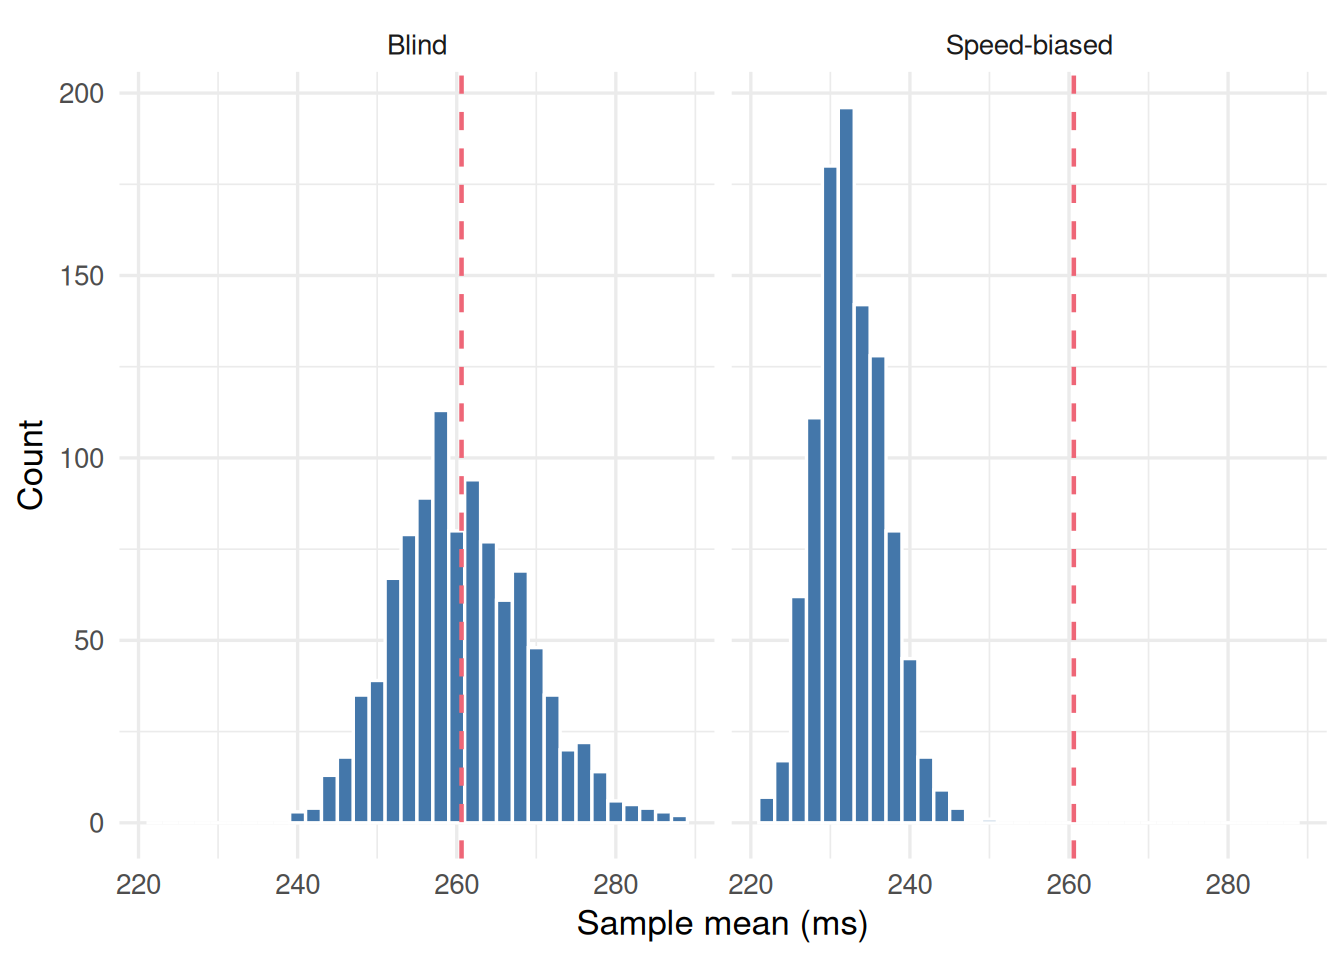
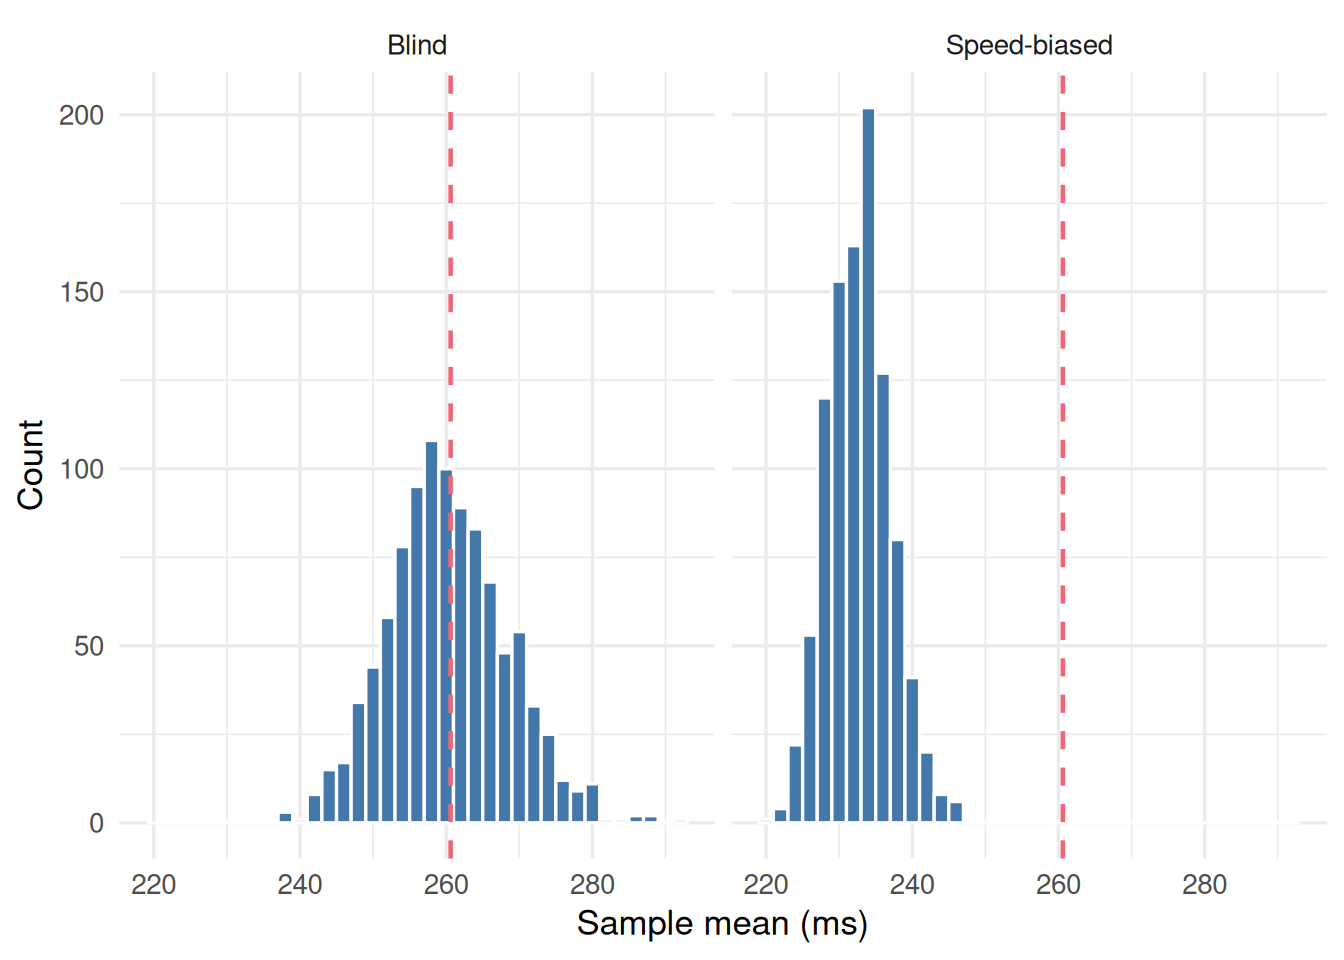
Fixes to week 1

diff --git a/docs/session-01-computation.html b/docs/session-01-computation.html
@@ -580,6 +580,46 @@ Answer
 </div>
 <p>The code below simulates both a blind draw and a speed-biased draw. In the biased version, each student’s probability of being selected falls off steeply with their reaction time, so fast students are drawn far more often than slow ones.</p>
 <div class="cell">
+<div class="code-copy-outer-scaffold"><div class="sourceCode cell-code" id="cb3"><pre class="sourceCode numberSource r number-lines code-with-copy"><code class="sourceCode r"><span id="cb3-1"><a href="#cb3-1"></a><span class="co">#| echo: true</span></span>
+<span id="cb3-2"><a href="#cb3-2"></a><span class="co">#| eval: false</span></span>
+<span id="cb3-3"><a href="#cb3-3"></a><span class="co">#| fig-cap: "Sampling distributions from blind (left) and speed-biased (right) draws."</span></span>
+<span id="cb3-4"><a href="#cb3-4"></a></span>
+<span id="cb3-5"><a href="#cb3-5"></a>blind_means <span class="ot">&lt;-</span> <span class="fu">replicate</span>(<span class="dv">1000</span>, {</span>
+<span id="cb3-6"><a href="#cb3-6"></a>  s <span class="ot">&lt;-</span> <span class="fu">sample</span>(rt_population, <span class="at">size =</span> <span class="dv">20</span>)</span>
+<span id="cb3-7"><a href="#cb3-7"></a>  <span class="fu">mean</span>(s)</span>
+<span id="cb3-8"><a href="#cb3-8"></a>})</span>
+<span id="cb3-9"><a href="#cb3-9"></a></span>
+<span id="cb3-10"><a href="#cb3-10"></a><span class="co"># Faster students more likely to have entered a score</span></span>
+<span id="cb3-11"><a href="#cb3-11"></a>biased_means <span class="ot">&lt;-</span> <span class="fu">replicate</span>(<span class="dv">1000</span>, {</span>
+<span id="cb3-12"><a href="#cb3-12"></a>  s <span class="ot">&lt;-</span> <span class="fu">sample</span>(rt_population, <span class="at">size =</span> <span class="dv">20</span>, <span class="at">prob =</span> <span class="fu">exp</span>(<span class="sc">-</span>rt_population <span class="sc">/</span> <span class="dv">25</span>))</span>
+<span id="cb3-13"><a href="#cb3-13"></a>  <span class="fu">mean</span>(s)</span>
+<span id="cb3-14"><a href="#cb3-14"></a>})</span>
+<span id="cb3-15"><a href="#cb3-15"></a></span>
+<span id="cb3-16"><a href="#cb3-16"></a><span class="fu">bind_rows</span>(</span>
+<span id="cb3-17"><a href="#cb3-17"></a>  <span class="fu">tibble</span>(<span class="at">sample_mean =</span> blind_means, <span class="at">draw =</span> <span class="st">"Blind"</span>),</span>
+<span id="cb3-18"><a href="#cb3-18"></a>  <span class="fu">tibble</span>(<span class="at">sample_mean =</span> biased_means, <span class="at">draw =</span> <span class="st">"Speed-biased"</span>)</span>
+<span id="cb3-19"><a href="#cb3-19"></a>) <span class="sc">|&gt;</span></span>
+<span id="cb3-20"><a href="#cb3-20"></a>  <span class="fu">ggplot</span>(<span class="fu">aes</span>(<span class="at">x =</span> sample_mean)) <span class="sc">+</span></span>
+<span id="cb3-21"><a href="#cb3-21"></a>  <span class="fu">geom_histogram</span>(<span class="at">binwidth =</span> <span class="dv">2</span>, <span class="at">fill =</span> <span class="st">"#4477AA"</span>, <span class="at">colour =</span> <span class="st">"white"</span>) <span class="sc">+</span></span>
+<span id="cb3-22"><a href="#cb3-22"></a>  <span class="fu">geom_vline</span>(</span>
+<span id="cb3-23"><a href="#cb3-23"></a>    <span class="at">xintercept =</span> pop_mean,</span>
+<span id="cb3-24"><a href="#cb3-24"></a>    <span class="at">linetype =</span> <span class="st">"dashed"</span>, <span class="at">colour =</span> <span class="st">"#EE6677"</span>, <span class="at">linewidth =</span> <span class="fl">0.8</span></span>
+<span id="cb3-25"><a href="#cb3-25"></a>  ) <span class="sc">+</span></span>
+<span id="cb3-26"><a href="#cb3-26"></a>  <span class="fu">facet_wrap</span>(<span class="sc">~</span>draw) <span class="sc">+</span></span>
+<span id="cb3-27"><a href="#cb3-27"></a>  <span class="fu">labs</span>(<span class="at">x =</span> <span class="st">"Sample mean (ms)"</span>, <span class="at">y =</span> <span class="st">"Count"</span>) <span class="sc">+</span></span>
+<span id="cb3-28"><a href="#cb3-28"></a>  <span class="fu">theme_minimal</span>(<span class="at">base_size =</span> <span class="dv">13</span>)</span></code></pre></div><button title="Copy to Clipboard" class="code-copy-button"><i class="bi"></i></button></div>
+<div class="cell-output-display">
+<div>
+<figure class="figure"><p><img src="session-01-computation_files/figure-html/unnamed-chunk-4-1.png" class="img-fluid figure-img" width="672"></p>
+</figure>
+</div>
+</div>
+</div>
+<div class="webex-solution">
+<button>
+Answer
+</button>
+<div class="cell">
 <div class="cell-output-display">
 <div id="fig-bias" class="quarto-float quarto-figure quarto-figure-center anchored">
 <figure class="quarto-float quarto-float-fig figure"><div aria-describedby="fig-bias-caption-0ceaefa1-69ba-4598-a22c-09a6ac19f8ca">
@@ -588,6 +628,7 @@ Answer
 <figcaption class="quarto-float-caption-bottom quarto-float-caption quarto-float-fig" id="fig-bias-caption-0ceaefa1-69ba-4598-a22c-09a6ac19f8ca">
 Figure&nbsp;3: Sampling distributions from blind (left) and speed-biased (right) draws.
 </figcaption></figure>
+</div>
 </div>
 </div>
 </div>
@@ -618,17 +659,17 @@ Why?
 </div>
 <p>The code that generates the blind draw is:</p>
 <div class="cell">
-<div class="code-copy-outer-scaffold"><div class="sourceCode cell-code" id="cb3"><pre class="sourceCode numberSource r number-lines code-with-copy"><code class="sourceCode r"><span id="cb3-1"><a href="#cb3-1"></a>blind_means <span class="ot">&lt;-</span> <span class="fu">replicate</span>(<span class="dv">1000</span>, {</span>
-<span id="cb3-2"><a href="#cb3-2"></a>  s <span class="ot">&lt;-</span> <span class="fu">sample</span>(rt_population, <span class="at">size =</span> <span class="dv">20</span>)</span>
-<span id="cb3-3"><a href="#cb3-3"></a>  <span class="fu">mean</span>(s)</span>
-<span id="cb3-4"><a href="#cb3-4"></a>})</span></code></pre></div><button title="Copy to Clipboard" class="code-copy-button"><i class="bi"></i></button></div>
+<div class="code-copy-outer-scaffold"><div class="sourceCode cell-code" id="cb4"><pre class="sourceCode numberSource r number-lines code-with-copy"><code class="sourceCode r"><span id="cb4-1"><a href="#cb4-1"></a>blind_means <span class="ot">&lt;-</span> <span class="fu">replicate</span>(<span class="dv">1000</span>, {</span>
+<span id="cb4-2"><a href="#cb4-2"></a>  s <span class="ot">&lt;-</span> <span class="fu">sample</span>(rt_population, <span class="at">size =</span> <span class="dv">20</span>)</span>
+<span id="cb4-3"><a href="#cb4-3"></a>  <span class="fu">mean</span>(s)</span>
+<span id="cb4-4"><a href="#cb4-4"></a>})</span></code></pre></div><button title="Copy to Clipboard" class="code-copy-button"><i class="bi"></i></button></div>
 </div>
 <p>The biased draw adds <code>prob = exp(-rt_population / 25)</code>, which weights selection heavily towards faster students:</p>
 <div class="cell">
-<div class="code-copy-outer-scaffold"><div class="sourceCode cell-code" id="cb4"><pre class="sourceCode numberSource r number-lines code-with-copy"><code class="sourceCode r"><span id="cb4-1"><a href="#cb4-1"></a>biased_means <span class="ot">&lt;-</span> <span class="fu">replicate</span>(<span class="dv">1000</span>, {</span>
-<span id="cb4-2"><a href="#cb4-2"></a>  s <span class="ot">&lt;-</span> <span class="fu">sample</span>(rt_population, <span class="at">size =</span> <span class="dv">20</span>, <span class="at">prob =</span> <span class="fu">exp</span>(<span class="sc">-</span>rt_population <span class="sc">/</span> <span class="dv">25</span>))</span>
-<span id="cb4-3"><a href="#cb4-3"></a>  <span class="fu">mean</span>(s)</span>
-<span id="cb4-4"><a href="#cb4-4"></a>})</span></code></pre></div><button title="Copy to Clipboard" class="code-copy-button"><i class="bi"></i></button></div>
+<div class="code-copy-outer-scaffold"><div class="sourceCode cell-code" id="cb5"><pre class="sourceCode numberSource r number-lines code-with-copy"><code class="sourceCode r"><span id="cb5-1"><a href="#cb5-1"></a>biased_means <span class="ot">&lt;-</span> <span class="fu">replicate</span>(<span class="dv">1000</span>, {</span>
+<span id="cb5-2"><a href="#cb5-2"></a>  s <span class="ot">&lt;-</span> <span class="fu">sample</span>(rt_population, <span class="at">size =</span> <span class="dv">20</span>, <span class="at">prob =</span> <span class="fu">exp</span>(<span class="sc">-</span>rt_population <span class="sc">/</span> <span class="dv">25</span>))</span>
+<span id="cb5-3"><a href="#cb5-3"></a>  <span class="fu">mean</span>(s)</span>
+<span id="cb5-4"><a href="#cb5-4"></a>})</span></code></pre></div><button title="Copy to Clipboard" class="code-copy-button"><i class="bi"></i></button></div>
 </div>
 <div class="task">
 <div class="task-header">
@@ -657,12 +698,14 @@ Model answer
 <p><strong>Task: swap the population for a process</strong></p>
 </div>
 <div class="task-container">
-<p>The code below plots the distribution of individual values from the reaction-time sheet. Change <code>rt_population</code> to <code>rexp(500, rate = 1)</code> and run it.</p>
+<p>So far you have sampled from a fixed list of 500 students. In real research you almost never have the whole population. Instead, you assume the data come from a <strong>process</strong>: a rule that can generate as many values as you ask for.</p>
+<p><code>rexp(n, rate = 1)</code> is one such process. Each time it runs, it produces <code>n</code> new random values. Most are small and a few are much larger, so the shape is skewed to the right, like reaction times. The values sit around 1 rather than around 250 ms, so expect the numbers on the x-axis to change.</p>
+<p><strong>Step 1: look at individual values.</strong> In the code below, replace <code>rt_population</code> with <code>rexp(500, rate = 1)</code>. This swaps the 500 students for 500 values made by the process. Run it.</p>
 <div class="cell">
-<div class="code-copy-outer-scaffold"><div class="sourceCode cell-code" id="cb5"><pre class="sourceCode numberSource r number-lines code-with-copy"><code class="sourceCode r"><span id="cb5-1"><a href="#cb5-1"></a><span class="fu">ggplot</span>(<span class="fu">tibble</span>(<span class="at">x =</span> rt_population), <span class="fu">aes</span>(<span class="at">x =</span> x)) <span class="sc">+</span></span>
-<span id="cb5-2"><a href="#cb5-2"></a>  <span class="fu">geom_histogram</span>(<span class="at">bins =</span> <span class="dv">30</span>, <span class="at">fill =</span> <span class="st">"#CCBB44"</span>, <span class="at">colour =</span> <span class="st">"white"</span>) <span class="sc">+</span></span>
-<span id="cb5-3"><a href="#cb5-3"></a>  <span class="fu">labs</span>(<span class="at">x =</span> <span class="st">"Individual value"</span>, <span class="at">y =</span> <span class="st">"Count"</span>) <span class="sc">+</span></span>
-<span id="cb5-4"><a href="#cb5-4"></a>  <span class="fu">theme_minimal</span>(<span class="at">base_size =</span> <span class="dv">13</span>)</span></code></pre></div><button title="Copy to Clipboard" class="code-copy-button"><i class="bi"></i></button></div>
+<div class="code-copy-outer-scaffold"><div class="sourceCode cell-code" id="cb6"><pre class="sourceCode numberSource r number-lines code-with-copy"><code class="sourceCode r"><span id="cb6-1"><a href="#cb6-1"></a><span class="fu">ggplot</span>(<span class="fu">tibble</span>(<span class="at">x =</span> rt_population), <span class="fu">aes</span>(<span class="at">x =</span> x)) <span class="sc">+</span></span>
+<span id="cb6-2"><a href="#cb6-2"></a>  <span class="fu">geom_histogram</span>(<span class="at">bins =</span> <span class="dv">30</span>, <span class="at">fill =</span> <span class="st">"#CCBB44"</span>, <span class="at">colour =</span> <span class="st">"white"</span>) <span class="sc">+</span></span>
+<span id="cb6-3"><a href="#cb6-3"></a>  <span class="fu">labs</span>(<span class="at">x =</span> <span class="st">"Individual value"</span>, <span class="at">y =</span> <span class="st">"Count"</span>) <span class="sc">+</span></span>
+<span id="cb6-4"><a href="#cb6-4"></a>  <span class="fu">theme_minimal</span>(<span class="at">base_size =</span> <span class="dv">13</span>)</span></code></pre></div><button title="Copy to Clipboard" class="code-copy-button"><i class="bi"></i></button></div>
 </div>
 <ul>
 <li>Are the individual values normally distributed? <select class="webex-select"><option value="blank"></option>
@@ -670,25 +713,30 @@ Model answer
 <option value="answer">FALSE</option></select>
 </li>
 </ul>
-<p>Now make the same substitution in the sampling distribution code from <a href="#sec-code-draw" class="quarto-xref"><span>Reproduce the draw in code</span></a>: replace <code>sample(rt_population, size = 20)</code> with <code>rexp(20, rate = 1)</code>.</p>
+<p><strong>Step 2: look at the means.</strong> Go back to the sampling distribution code from <a href="#sec-code-draw" class="quarto-xref"><span>Reproduce the draw in code</span></a>. Right now each repeat picks 20 students from the list. Replace <code>sample(rt_population, size = 20)</code> with <code>rexp(20, rate = 1)</code>, so each repeat generates 20 fresh values from the process instead. Run it.</p>
 <div class="cell">
-<div class="code-copy-outer-scaffold"><div class="sourceCode cell-code" id="cb6"><pre class="sourceCode numberSource r number-lines code-with-copy"><code class="sourceCode r"><span id="cb6-1"><a href="#cb6-1"></a>sample_means <span class="ot">&lt;-</span> <span class="fu">replicate</span>(<span class="dv">1000</span>, {</span>
-<span id="cb6-2"><a href="#cb6-2"></a>  s <span class="ot">&lt;-</span> <span class="fu">sample</span>(rt_population, <span class="at">size =</span> <span class="dv">20</span>)</span>
-<span id="cb6-3"><a href="#cb6-3"></a>  <span class="fu">mean</span>(s)</span>
-<span id="cb6-4"><a href="#cb6-4"></a>})</span>
-<span id="cb6-5"><a href="#cb6-5"></a></span>
-<span id="cb6-6"><a href="#cb6-6"></a><span class="fu">ggplot</span>(<span class="fu">tibble</span>(<span class="at">sample_mean =</span> sample_means), <span class="fu">aes</span>(<span class="at">x =</span> sample_mean)) <span class="sc">+</span></span>
-<span id="cb6-7"><a href="#cb6-7"></a>  <span class="fu">geom_histogram</span>(<span class="at">bins =</span> <span class="dv">30</span>, <span class="at">fill =</span> <span class="st">"#4477AA"</span>, <span class="at">colour =</span> <span class="st">"white"</span>) <span class="sc">+</span></span>
-<span id="cb6-8"><a href="#cb6-8"></a>  <span class="fu">labs</span>(<span class="at">x =</span> <span class="st">"Sample mean"</span>, <span class="at">y =</span> <span class="st">"Count"</span>) <span class="sc">+</span></span>
-<span id="cb6-9"><a href="#cb6-9"></a>  <span class="fu">theme_minimal</span>(<span class="at">base_size =</span> <span class="dv">13</span>)</span></code></pre></div><button title="Copy to Clipboard" class="code-copy-button"><i class="bi"></i></button></div>
+<div class="code-copy-outer-scaffold"><div class="sourceCode cell-code" id="cb7"><pre class="sourceCode numberSource r number-lines code-with-copy"><code class="sourceCode r"><span id="cb7-1"><a href="#cb7-1"></a>sample_means <span class="ot">&lt;-</span> <span class="fu">replicate</span>(<span class="dv">1000</span>, {</span>
+<span id="cb7-2"><a href="#cb7-2"></a>  s <span class="ot">&lt;-</span> <span class="fu">sample</span>(rt_population, <span class="at">size =</span> <span class="dv">20</span>)   <span class="co"># &lt;- replace this line's right-hand side</span></span>
+<span id="cb7-3"><a href="#cb7-3"></a>  <span class="fu">mean</span>(s)</span>
+<span id="cb7-4"><a href="#cb7-4"></a>})</span>
+<span id="cb7-5"><a href="#cb7-5"></a></span>
+<span id="cb7-6"><a href="#cb7-6"></a><span class="fu">ggplot</span>(<span class="fu">tibble</span>(<span class="at">sample_mean =</span> sample_means), <span class="fu">aes</span>(<span class="at">x =</span> sample_mean)) <span class="sc">+</span></span>
+<span id="cb7-7"><a href="#cb7-7"></a>  <span class="fu">geom_histogram</span>(<span class="at">bins =</span> <span class="dv">30</span>, <span class="at">fill =</span> <span class="st">"#4477AA"</span>, <span class="at">colour =</span> <span class="st">"white"</span>) <span class="sc">+</span></span>
+<span id="cb7-8"><a href="#cb7-8"></a>  <span class="fu">labs</span>(<span class="at">x =</span> <span class="st">"Sample mean"</span>, <span class="at">y =</span> <span class="st">"Count"</span>) <span class="sc">+</span></span>
+<span id="cb7-9"><a href="#cb7-9"></a>  <span class="fu">theme_minimal</span>(<span class="at">base_size =</span> <span class="dv">13</span>)</span></code></pre></div><button title="Copy to Clipboard" class="code-copy-button"><i class="bi"></i></button></div>
 </div>
 <ul>
-<li>Is the sampling distribution of their mean approximately normal? <select class="webex-select"><option value="blank"></option>
+<li>Is the sampling distribution of the mean approximately normal? <select class="webex-select"><option value="blank"></option>
 <option value="answer">TRUE</option>
 <option value="">FALSE</option></select>
 </li>
 </ul>
-<p>The same substitution in two places, and two histograms to compare. The individual values are strongly right-skewed, but the means pile up into an approximately normal shape. Session 2 names this result.</p>
+<div class="webex-solution">
+<button>
+What just happened?
+</button>
+<p>Both histograms come from the same process. The individual values are strongly skewed to the right, but when you average them in groups of 20, the means pile up into a roughly symmetrical, bell-shaped distribution. This is no coincidence, and we will explore this more next time.</p>
+</div>
 </div>
 </div>
 </section><section id="sec-exit" class="level2"><h2 class="anchored" data-anchor-id="sec-exit">Exit ticket</h2>
